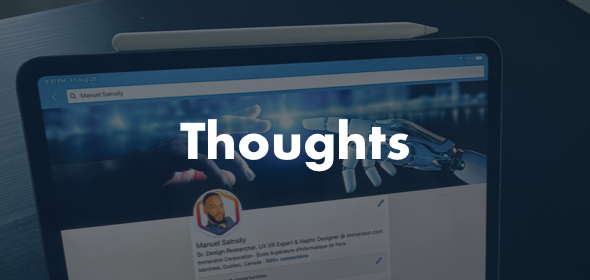
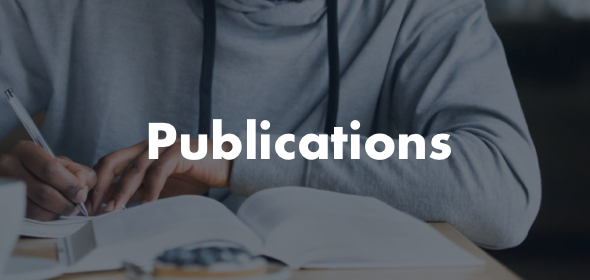
/thoughts into /publications

diff --git a/publications.html b/publications.html
@@ -1,12 +1,9 @@
 <!DOCTYPE html>
 <html lang="en-US">
 <head>
-	<!--
-		<meta http-equiv="Refresh" content="0; url=https://sainxart.com/coming-soon" />
-	-->
 	<meta http-equiv="Content-Type" content="text/html; charset=UTF-8">
-	<title>Manu.Vision/Thoughts</title>
-	<meta name="description" content="A blog, a glossary, a notebook.">
+	<title>Manu.Vision/publications</title>
+	<meta name="description" content="Recent thoughts, articles and publications.">
 	<meta name="viewport" content="width=device-width, initial-scale=1, maximum-scale=1">
 	<link rel="shortcut icon" type="image/x-icon" href="images/32x32.ico">
 
@@ -121,6 +118,7 @@
 <!-- main layout -->
 <main class="content">
 	
+	
 	<!-- section home -->
 	<section id="home" class="home d-flex align-items-center">
 		<div class="container">
@@ -128,17 +126,24 @@
 			<!-- intro -->
 			<div class="intro">
 				<!-- info -->
-				<h1 class="mb-2 mt-0">Manu.Vision/thoughts</h1>
+				<h1 class="mb-2 mt-0">Manu.Vision/publications</h1>
 				<br/>
 				<br/>
-				<p>Browse a curation of recent articles, news, and personal thoughts... 
-					<br/>Stay up to date around the topics of Design, Science & Technology:</p>
-				<!-- buttons -->
-				<div class="mt-4">
-					<a href="https://www.linkedin.com/in/manuvision/detail/recent-activity/" target="_blank" class="btn btn-default">Read Latest Thoughts</a>
+				<p>Browse a curation of recent articles, news, and personal thoughts on the topics of Design, Science & Technology:</p>
+				
+					
+					
+					<!-- buttons -->
+					<div class="mt-4">
+						<a href="https://medium.com/@manu.vision" target="_blank" class="btn btn-default">Medium Articles</a>
+					</div>	
+					
+					<div class="mt-4">
+					<a href="https://www.linkedin.com/in/manuvision/detail/recent-activity/" target="_blank" class="btn btn-default">View LinkedIn Activity</a>
 				</div>	
 				<br/>
 				<br/>
+
 				<i>Thank you!</i>
 				<!-- buttons -->
 				<div class="mt-4">

diff --git a/index.html b/index.html
@@ -1121,7 +1121,6 @@
 				</div>
 			</div>
 		</div>
-		</div>
 
 		<br/>
 		<div class="rounded bg-dark shadow-light padding-30">
@@ -1139,8 +1138,8 @@
 				<a href="#small-dialog11" class="work-content">
 					<div class="portfolio-item rounded shadow-dark">
 						<div class="details">
-							<span class="term">Safari iOS 12</span>
-							<h4 class="title">Let's Go</h4>
+							<span class="term">Augmented Reality</span>
+							<h4 class="title">Try AR Now</h4>
 						</div>
 						<div class="thumb">
 							<img src="images/lab11.png" alt="Portfolio-title" />
@@ -1158,7 +1157,7 @@
 
 					<!-- buttons -->
 					<div class="text-center mt-4">
-						<a href="https://www.vectary.com/download/usdz/595c7e97-f8be-40e1-bf9f-6649cb8eaac1.usdz" class="btn btn-default">Open with Safari</a>
+						<a href="https://www.vectary.com/download/usdz/595c7e97-f8be-40e1-bf9f-6649cb8eaac1.usdz" class="btn btn-default">View USDZ</a>
 					</div>
 					
 				</div>
@@ -1167,11 +1166,11 @@
 
 			<!-- portfolio item -->
 			<div class="col-md-4 col-sm-6 grid-item gov insu">
-				<a href="https://manu.vision/thoughts">
+				<a href="https://manu.vision/pubications">
 					<div class="portfolio-item rounded shadow-dark">
 						<div class="details">
-							<span class="term">Thoughts</span>
-							<h4 class="title">Read my Thoughts</h4>
+							<span class="term">Publications</span>
+							<h4 class="title">Read Me</h4>
 						</div>
 						<div class="thumb">
 							<img src="images/lab13.png" alt="Portfolio-title" />
